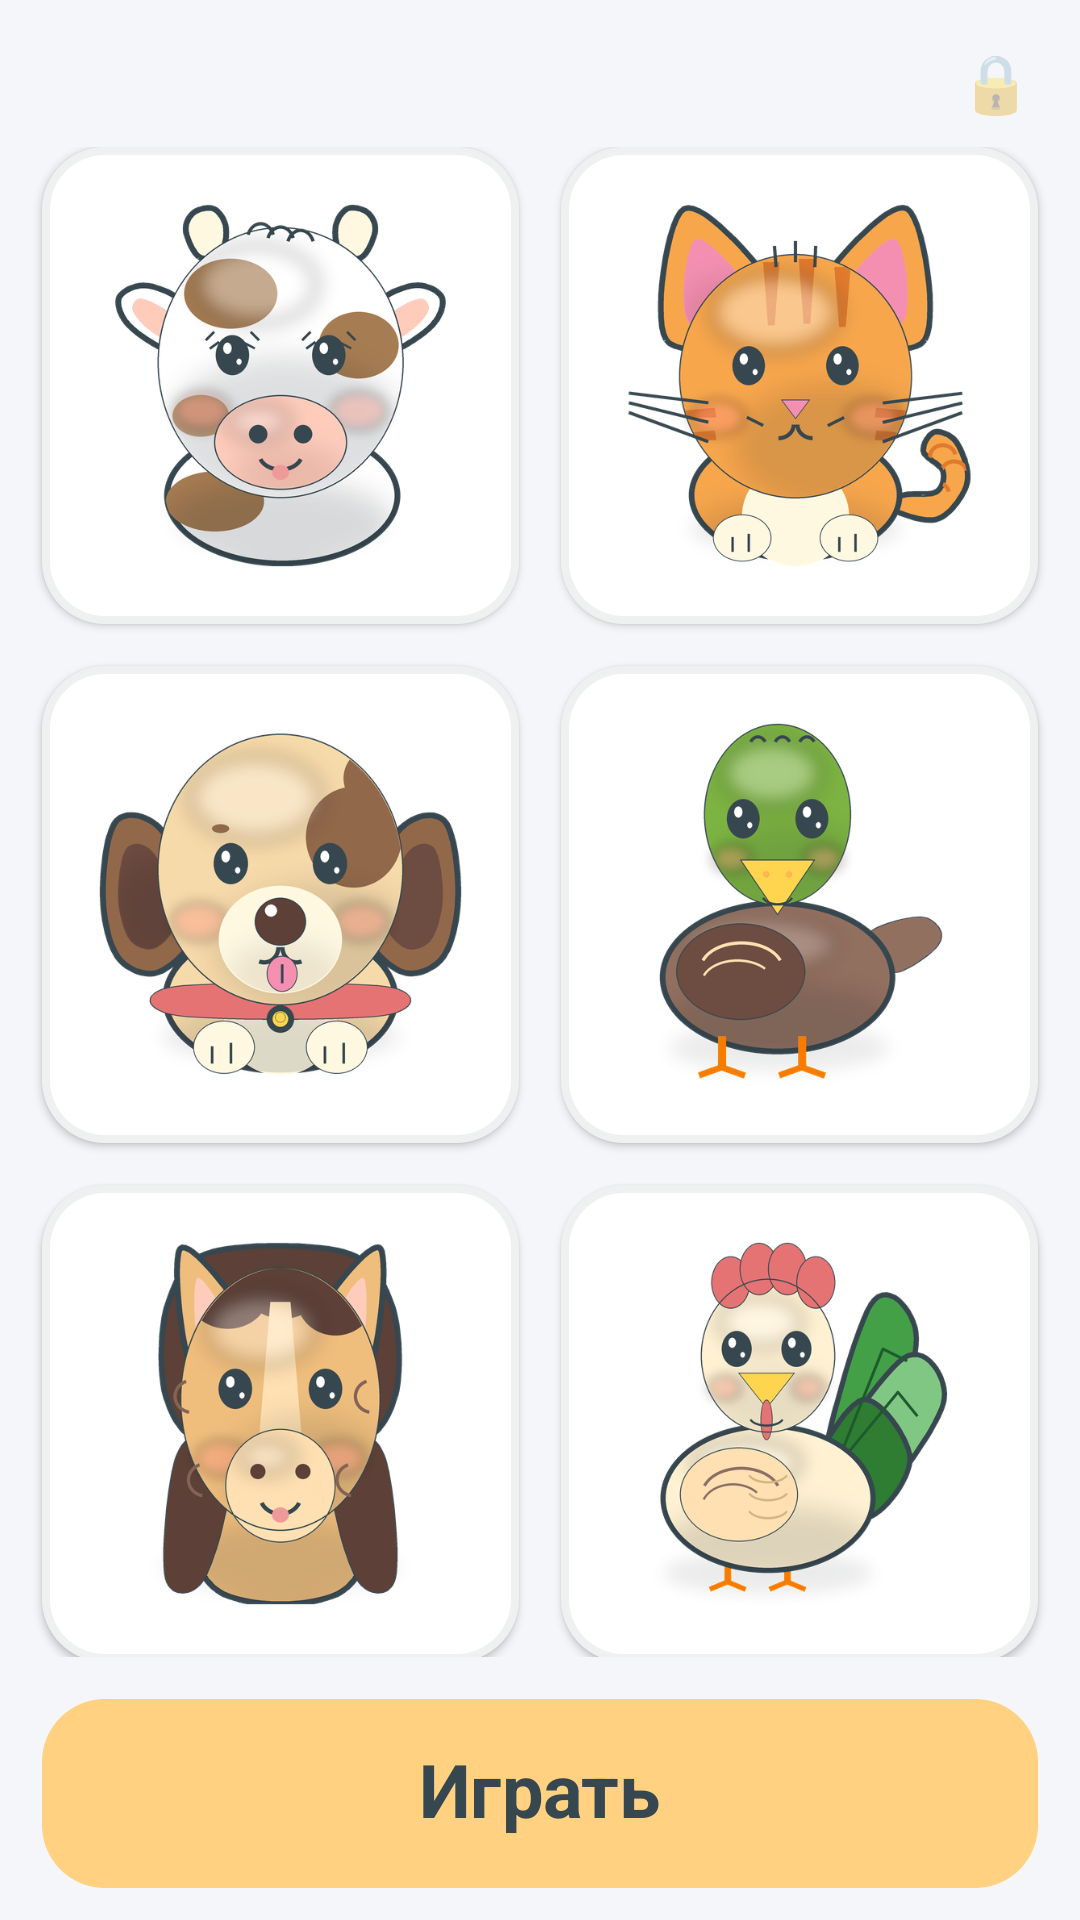
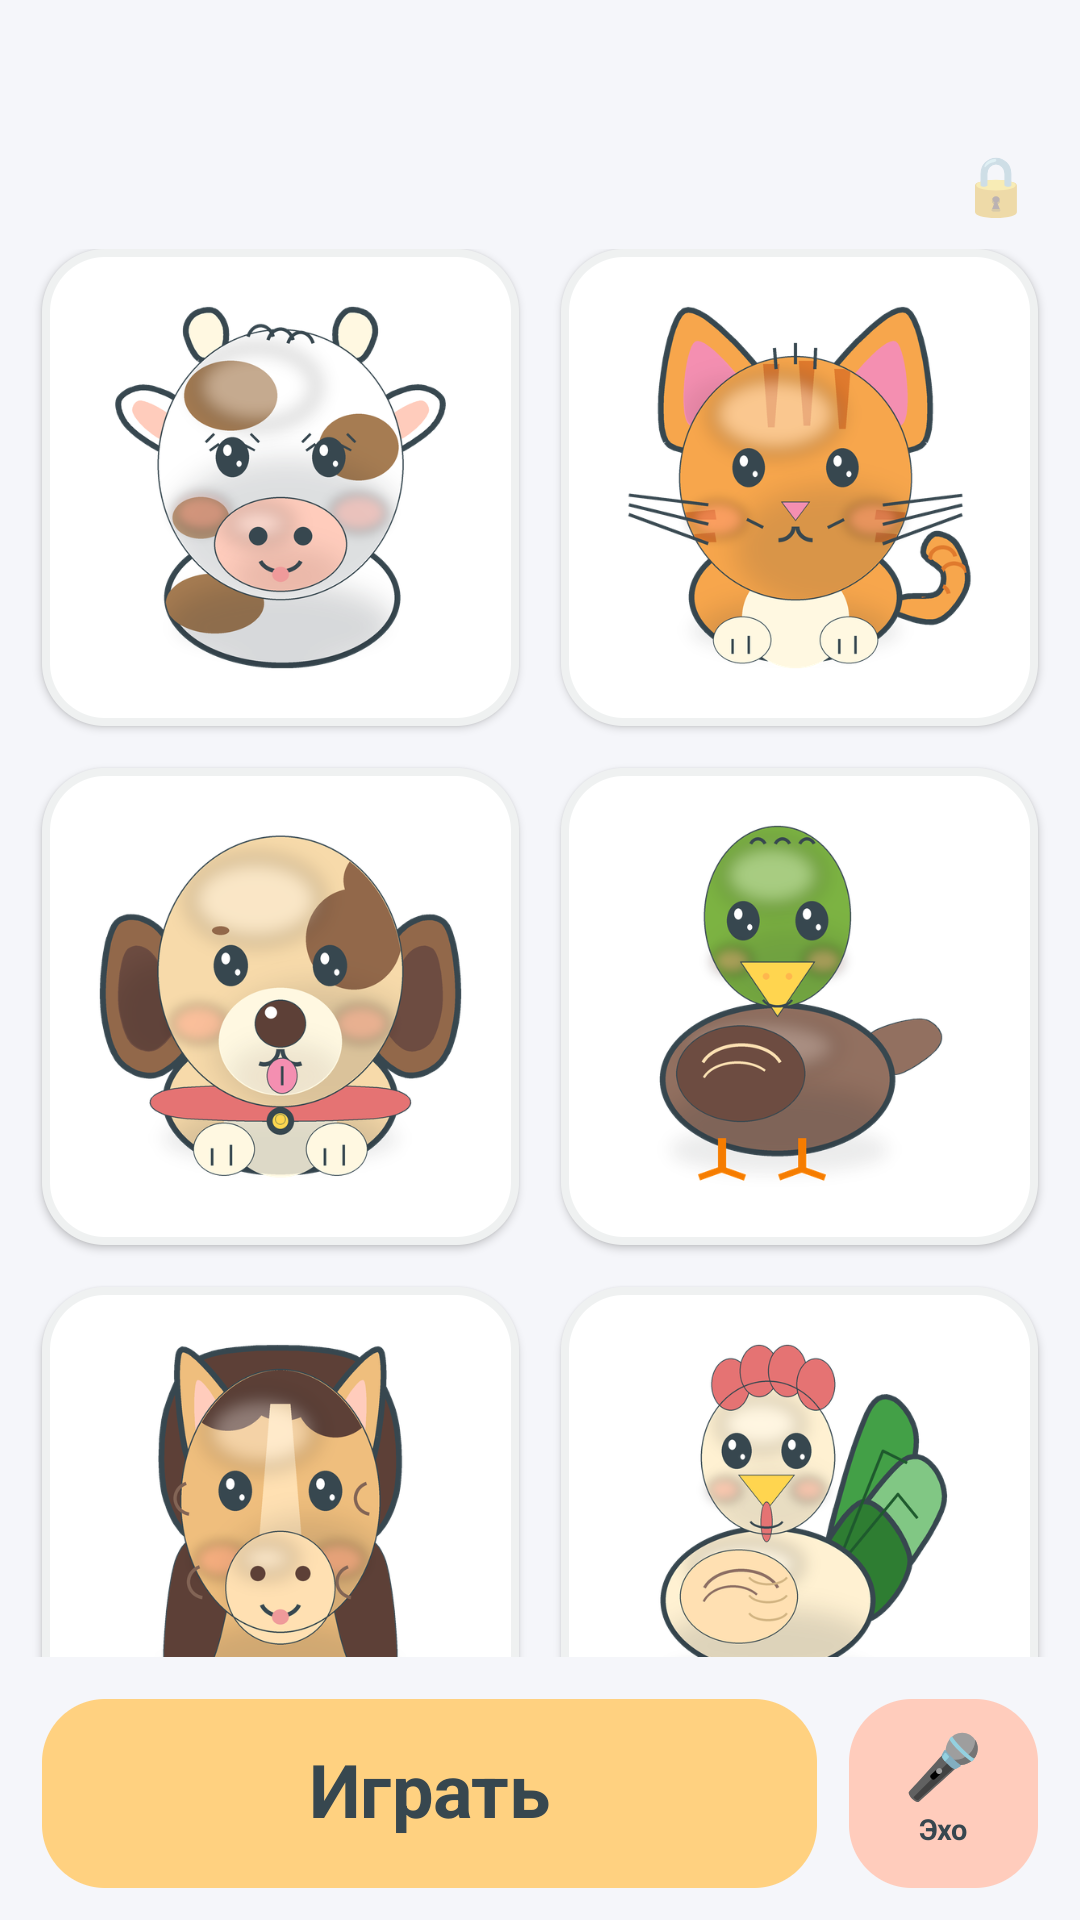
Refresh RuStore screenshots and 0.2.0 notes

diff --git a/store/listing-ru.md b/store/listing-ru.md
@@ -74,6 +74,10 @@
 Добавили десять животных: овцу, свинью, козу, лягушку, гуся, осла, сову,
 мышку, пчелу и индюка. Перерисовали все иллюстрации, обновили сетку
 песочницы для телефонов и планшетов. Теперь в игре 16 животных.
+
+Сделали выход из игры заметным: кнопка «← Домой» есть в игре и на экране
+награды, а системная кнопка «Назад» возвращает в песочницу. Улучшили
+контраст кнопок и подписали кнопку «Эхо».
 ```
 
 ## Ключевые слова для ASO
